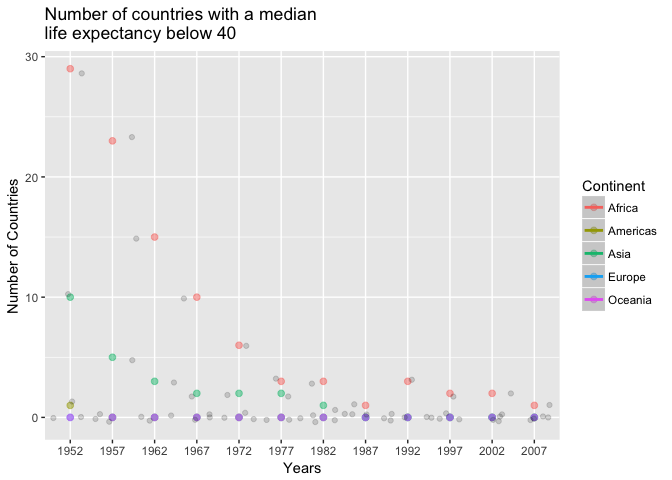
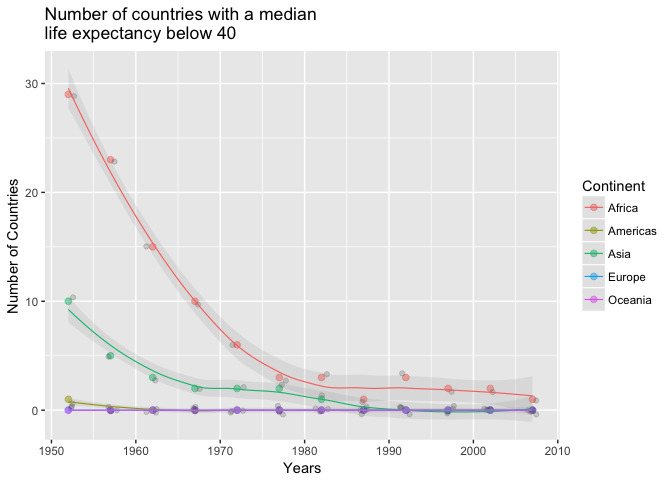
changed graph

diff --git a/hw03/hw3_gapminder_exploration.md b/hw03/hw3_gapminder_exploration.md
@@ -193,4 +193,4 @@ Here is a much cleaner graph to show our data:
 
 Here we can see that Africa had the largest number of countries with a very low average life expectancy for years before 1972 but after that African countries were more similiar to other continents. Most continents have very few countries with life expectancies under 40. One thing with this graph that drives me crazy is that Europe and Oceania both have zeros for all their data perfectly overlay. This results in a purple colour (blue and pink) for the bottom zeros. It's cool that it does that but for a reader it would be very confusing.
 
-So I added a jitter line to uncluster these data points which does make for a busier plot but now it is clearer what the data points are. ![](hw3_gapminder_exploration_files/figure-markdown_github-ascii_identifiers/unnamed-chunk-17-1.png)
+So I added a jitter line to uncluster these data points which does make for a busier plot but now it is clearer what the data points are. I also made our lines smaller so that the data is more visible. ![](hw3_gapminder_exploration_files/figure-markdown_github-ascii_identifiers/unnamed-chunk-17-1.png)
